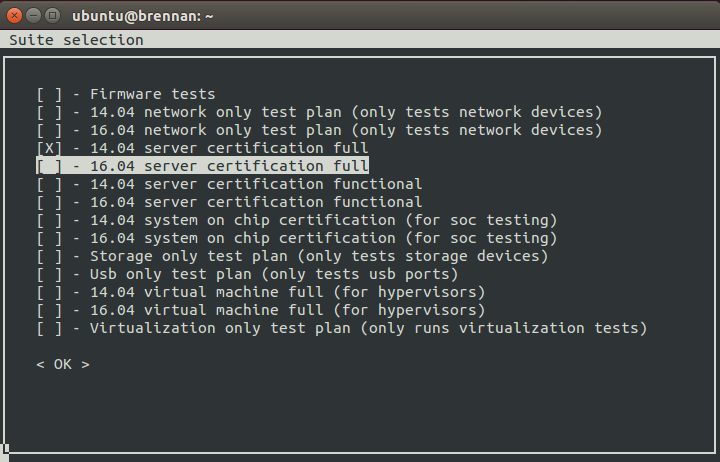
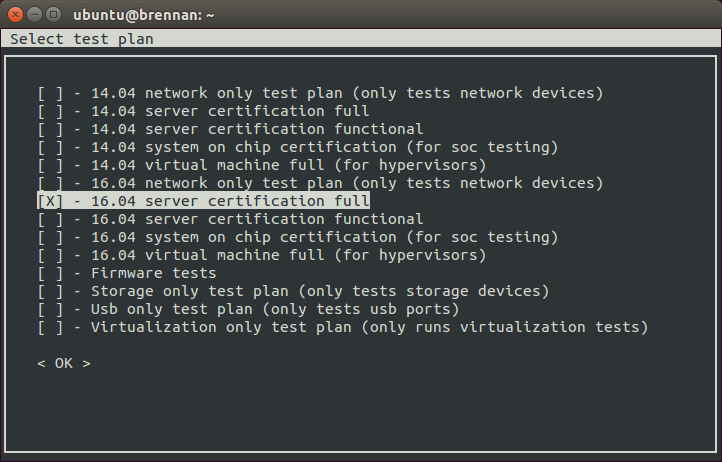
New test-selection screen figures for 16.04 STG; also removed information on bringing Checkbox in on a USB flash drive.

Changed region(s): [[0.0, 0.0, 1.0, 1.0], [0.0611, 0.7576, 0.1222, 0.8182]]

diff --git a/Self-Test_Guide-16.04.rst b/Self-Test_Guide-16.04.rst
@@ -311,12 +311,6 @@ that you have:
    Test Suite on the SUT, which will not be the case for a "generic" MAAS
    server.)
 
--  A USB flash drive that holds the Server Test Suite software. (This is a
-   precautionary measure in case MAAS can't install the Server Test Suite
-   packages and your LAN lacks Internet access.) The `Bringing the Server
-   Test Suite Packages With You`_ section of Appendix A describes how to
-   obtain the software.
-
 Hardware Setup
 --------------
 
@@ -373,10 +367,6 @@ up the SUT and test environment:
 
    -  If the UEFI supports it, the SUT must be configured to boot with
       Secure Boot active.
-
-.. raw:: pdf
-
-   PageBreak
 
 -  Storage should be properly configured.
 
@@ -583,19 +573,20 @@ You should keep some details in mind as you continue to access the SUT:
    certification software yourself, as described in `Appendix A -
    Installing the Server Test Suite Manually`_.
 
+.. raw:: pdf
+
+   PageBreak
+
 Installing the Server Test Suite Packages
 -----------------------------------------
 
-Three methods of installing the Server Test Suite exist:
+Two methods of installing the Server Test Suite are supported:
 
 -  Automatically by the MAAS server
 
 -  Using APT to retrieve the Server Test Suite packages on a SUT with
    full Internet access or with access to a local APT repository on
    a local computer such as the MAAS server
-
--  By loading the Server Test Suite Debian packages from a USB flash
-   drive or other medium you bring with you to the test site
 
 If MAAS is fully configured as described in the `MAAS Advanced NUC
 Installation and Configuration -- Scripted (MANIACS)` document, it should
@@ -768,7 +759,7 @@ You can initiate a testing session in a server as follows:
             simple problems that might make you go d'oh!
       :width: 100%
 
-   Summary results are color-coded, with gray for information, green for
+   Summary results are color-coded, with white for information, green for
    passed results, yellow for warnings, and red for problems that should be
    corrected. In the preceding output, the Installed RAM value was
    displayed in yellow because the system's RAM is a bit shy of 4 GiB; and
@@ -810,7 +801,7 @@ You can initiate a testing session in a server as follows:
    this screen is fairly straightforward, but `Appendix C - Using the Test
    Selection Screen`_ covers the details.
 
-   .. figure:: images/ccs_tests.png
+   .. figure:: images/test-selection-xenial.png
       :alt: The suite selection screen enables you to pick which
             tests to run
       :width: 100%
@@ -839,8 +830,7 @@ You can initiate a testing session in a server as follows:
    harmless reasons can also appear in this list.
 
 #. When the test run is complete, you should see a summary of tests run, a
-   note about where the ``submission.xml``, ``submission.html``,
-   ``submission.xlsx``, and ``submission.json`` files have been stored,
+   note about where the ``submission*`` files have been stored,
    and a prompt to submit the
    results to ``certification.canonical.com``. If you're connected to the
    Internet, typing ``y`` at this query should cause the results to be
@@ -853,11 +843,12 @@ You can initiate a testing session in a server as follows:
    having the results available as a backup can be useful because it
    enables you to review the results off-line or in case of submission
    problems that aren't immediately obvious. The results are stored in
-   the ``~/.local/share/plainbox`` directory. The upcoming section,
+   the ``~/.local/share/checkbox-ng`` directory. The upcoming section,
    `Manually Uploading Test Results to the Certification Site`_, describes
    how to perform this task.
 
-You can review your results locally by loading ``submission.html`` in a web
+You can review your results locally by loading
+``submission_<DATECODE>.html`` in a web
 browser. This enables you to
 quickly spot failed tests because they're highlighted in red with a
 "FAILED" notation in the Result column, whereas passed tests acquire a
@@ -907,7 +898,7 @@ instructions:
 #. Run the following command::
 
     $ canonical-certification-submit --secure_id <SUT_SECURE_ID> \
-      <PATH_TO>/submission.xml
+      <PATH_TO>/submission_<DATECODE>.xml
 
    where:
 
@@ -920,26 +911,24 @@ instructions:
          :align: left
          :width: 50%
 
-   -  ``<PATH_TO>`` refers to the location of the ``submission.xml file``
+   -  ``<PATH_TO>`` refers to the location of the
+      ``submission_{datecode}.xml`` file
       (which should be contained in the ``~/.local/share/plainbox``
       directory you copied to the USB key).
 
-   -  Older versions of this tool used ``\-\-hwid`` rather than
-      ``\-\-secure_id``.
+   -  ``<DATECODE>`` is a date code. Note that if you re-run the
+      certification suite, you're likely to see multiple
+      ``submission_<DATECODE>.xml`` files, each with a different date code,
+      one for each run. Ordinarily, you should submit the most recent file.
 
 You should see output similar to the following for a successful
 submission::
 
-  $ canonical-certification-submit --hwid a00D000000LU9Ji \
+  $ canonical-certification-submit --secure_id a00D000000dpNfPIAU \
      ~/.local/share/plainbox/submission.xml
-   2012-03-28 11:05:30,575 INFO     Preparing to submit results using Hardware
-                                    ID: a00D000000LU9Ji
-   2012-03-28 11:05:30,576 INFO     Getting messages
-   2012-03-28 11:05:56,726 INFO     Exchanged 8 of 8 messages
-   2012-03-28 11:05:56,726 INFO     Results have been successfully submitted.
-                                    To review your test results now, please
-                                    go to the following URL:
-               https://certification.canonical.com/submission/eFXnst3rVbBvdu2
+  Successfully sent, submission status at
+  https://certification.canonical.com/submissions/status/20283
+
   
 Once results submission is complete, use the provided link in the output
 to review the results and confirm that they are correct.
@@ -1012,18 +1001,10 @@ Appendix A - Installing the Server Test Suite Manually
 
 Ordinarily, MAAS will install the Server Test Suite onto the SUT as part of
 the provisioning process. If the MAAS server is not configured to do this,
-you have two additional options for installing the Server Test Suite: You
-may use APT if the SUT has full Internet access (or at least access to a
-local APT repository); or you may install the Server Test Suite from a
-tarball that you bring with you.
-
-Installing the Server Test Suite via APT
-----------------------------------------
-
-If your lab has Internet access or a local APT repository with both the
-main Ubuntu archives and the relevant PPAs, getting the testing tools is a
-straightforward process, because you can install the necessary tools using
-``apt-get``.
+you may use APT to do the job after deploying the SUT. In order to do this,
+your lab must have Internet access or a local APT repository with both the
+main Ubuntu archives and the relevant PPAs. You can install the necessary
+tools using ``apt-get``.
 
 Log in to the server locally or via SSH or KVM and run the following
 commands::
@@ -1049,60 +1030,6 @@ During the installation, you may be prompted for a password for ``mysql``.
 This can be set to anything you wish; it will not be used during testing.
 
 At this point, the test suite and dependencies should be installed.
-
-Bringing the Server Test Suite Packages With You
-------------------------------------------------
-
-If you do not have Internet access from your LAN, you can find the
-pre-built tarball including the Server Test Suite packages under:
-
-https://certification.canonical.com/offline
-
-Note that you will be asked for your account credentials when you access
-that URL.
-
-Copy the appropriate ``.tar.gz`` file to a USB stick and bring this with
-you when testing the system. You will also need to obtain and bring a copy
-of a bootable Ubuntu Cloud Image for the virtualization portion of the
-certification test.  You can obtain that here:
-
-http://cloud-images.ubuntu.com/trusty/current/trusty-server-cloudimg-i386-disk1.img
-
-You can use another release of Ubuntu if this is convenient. An i386
-image is used even when you're testing 64-bit hardware. The point is to
-test that virtualization features work, not that a specific Ubuntu
-version or architecture is supported. Because the i386 image is more
-general, it's the one that we use in testing.
-
-To install the server certification packages from the copied tarball,
-perform the following steps on the SUT:
-
-#. Insert the USB drive on which you placed the tarball.
-
-#. Extract the contents of the ``.tar.gz`` file from the USB stick to a
-   temporary directory::
-
-    $ tar -C /tmp -xzf ubuntu-16.04-server-amd64.tar.gz
-    $ cd /tmp
-
-#. Look for a directory whose name begins with ``apt-repo`` and switch to
-   it (note this is just an example, your exact directory name may be
-   different)::
-
-    $ cd apt-repo-ubuntu-16.04.1-server-amd64.iso-20160401-canonical-certification-ser
-
-4. Use a provided helper script to add a local package repository::
-
-    $ sudo ./add_offline_repository -u
-
-5. Install the Server Test Suite::
-
-    $ sudo apt-get install canonical-certification-server
-
-During the installation, you may be prompted for a password for ``mysql``.
-This can be set to anything you wish; it will not be used during testing.
-If you're asked about mail server configuration, respond that the mail
-server should not be configured.
 
 .. raw:: pdf
 
@@ -1184,26 +1111,27 @@ do it when so instructed.
 
 The test selection screen looks like this:
 
-.. figure:: images/ccs_tests2.png
+.. figure:: images/test-selection2-xenial.png
    :alt: The test selection screen enables you to select the tests
          you want to run.
    :width: 100%
 
-Every test suite name is preceded by brackets that contain either an
-*X* character or nothing to identify whether the test suite has been
-selected or not.
+Initially a list of test categories appears. Highlighting one of these
+categories and then pressing the Enter key expands the category to show the
+individual tests it contains. (The preceding figure shows the *Ethernet
+Device tests* category so expanded.)
 
-Tests are arranged hierarchically. When a top-level test is highlighted,
-you can hide or reveal the details by pressing the Enter key; or you can
-select or deselect all the tests in that category by pressing the
-Spacebar. For instance, with *Benchmark tests* highlighted, as in the
-figure, pressing Enter will hide the lines up to *CPU tests*; and pressing
-the Spacebar will deactivate (or re-activate) all of the benchmark
-tests. You can select or de-select an individual test, such as the
-*hdparm-read_sda* test, by highlighting it and pressing the Spacebar.
+Every category and test suite name is preceded by brackets that contain
+either an *X* character or nothing to identify whether the test suite has
+been selected or not. You can select or deselect either an individual test
+or all the tests in a category by pressing the Spacebar. For instance, with
+*Ethernet Device tests* highlighted, pressing the Spacebar will deactivate
+(or re-activate) all of the Ethernet tests. You can select or de-select an
+individual test, such as the *Multi-NIC Iperf3 testing for NIC eth1* test,
+by highlighting it and pressing the Spacebar.
 
-Once you've selected all the tests, press the *T* key to begin the testing
-process.
+Once you've chosen the tests you want to run, press the *T* key to begin
+the testing process.
 
 .. raw:: pdf
 
